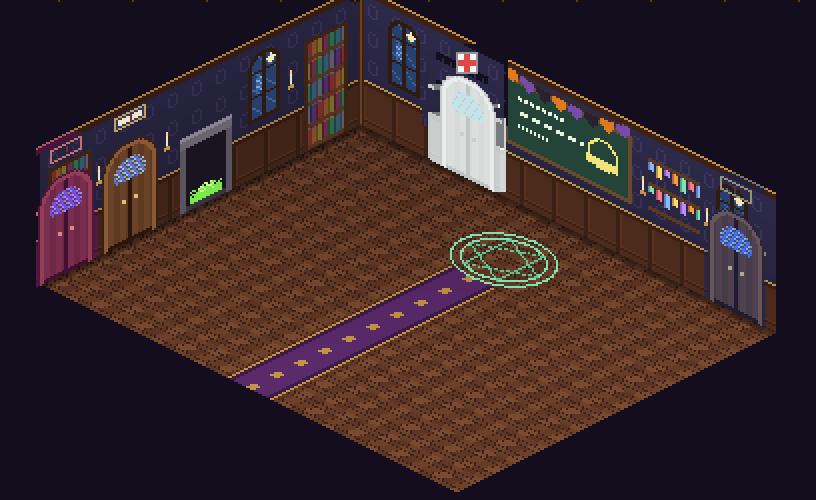
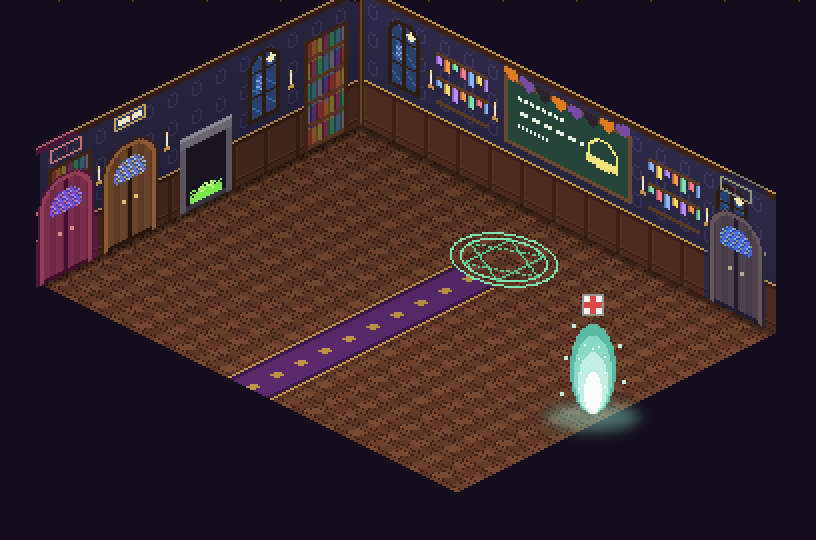
누비: 양호실 입구를 문 대신 물약 교실 오른쪽 바닥 끝 포탈로 (시안)
Claude-Session: https://claude.ai/code/session_01HhJ2NoNCjk5kaA3GWL7UDs

Changed region(s): [[0.0306, 0.0, 0.9498, 0.99], [0.3676, 0.0, 0.3983, 0.03], [0.337, 0.03, 0.3676, 0.06]]

diff --git a/tools/nubi_mock/nubi_story.md b/tools/nubi_mock/nubi_story.md
@@ -47,7 +47,7 @@
 
 ## 장소
 
-- **양호실** (새 방 · 세라 선생님): 본관 물약 교실에서 빨간 십자 팻말이 붙은 하얀 문으로 들어가요
+- **양호실** (새 방 · 세라 선생님): 본관 물약 교실 오른쪽 바닥 끝의 민트빛 포탈 (위에 작은 빨간 십자 팻말)로 들어가요 · 문을 새로 그리지 않고, 밟고 지나가면 넘어가요
   - 밝고 깨끗한 방: 하얀 철제 침대 세 개 · 칸막이 커튼 · 약장 · 키 재는 자 · 체중계 · 세면대 · 세라 선생님 책상
   - 세라 선생님은 물약 교실에서 이 방으로 옮겨요 (하트 스토리에 나오는 양호실이 실제로 생겨요)
   - 맨 안쪽 벽에 페인트가 벗겨진 낡은 나무문 · 녹슨 자물쇠에 빛바랜 리본 · 늘 잠겨 있어요
